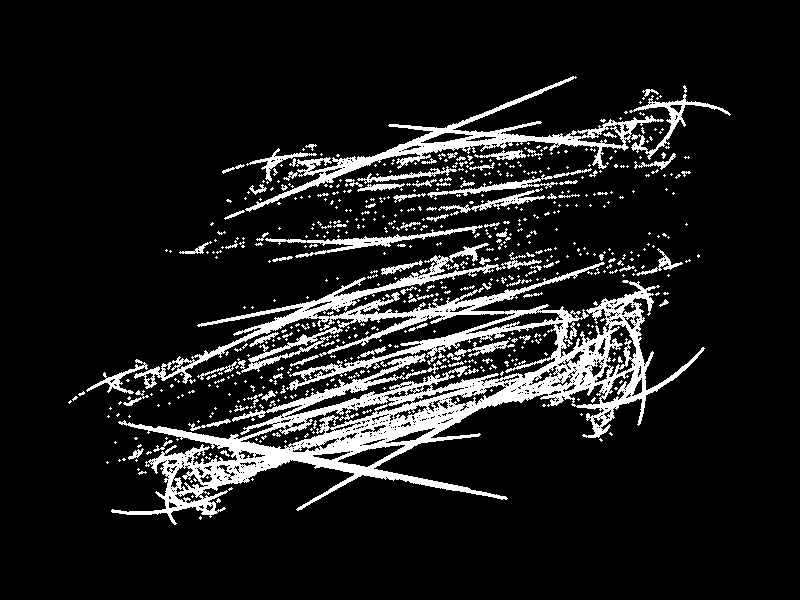
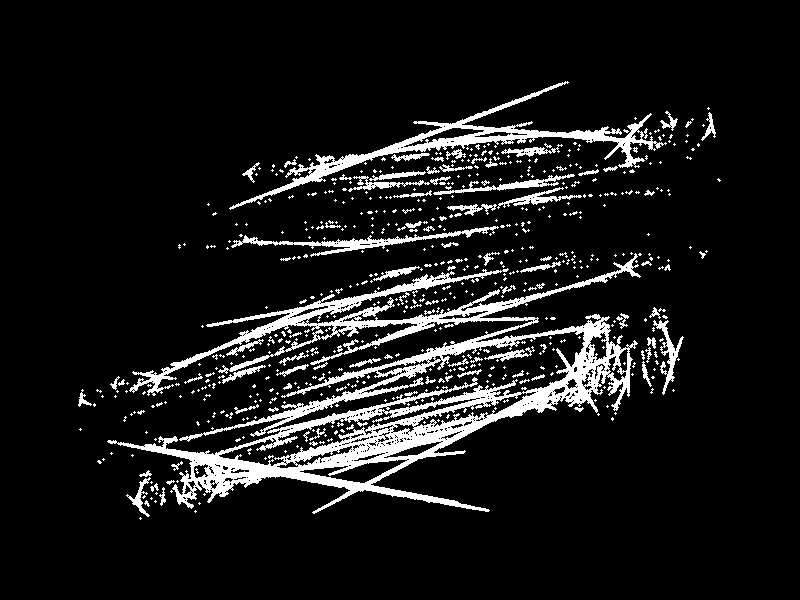
Added Post transform

Changed region(s): [[0.0938, 0.15, 0.9062, 0.87], [0.6875, 0.12, 0.7188, 0.15]]

diff --git a/src/main.rs b/src/main.rs
@@ -13,6 +13,24 @@ enum Variation {
     Popcorn,
 }
 
+struct PostTransform {
+    a: f64,
+    b: f64,
+    c: f64,
+    d: f64,
+    e: f64,
+    f: f64,
+}
+
+impl PostTransform {
+    fn apply(&self, x: f64, y: f64) -> (f64, f64) {
+        (
+            self.a * x + self.b * y + self.c,
+            self.d * x + self.e * y + self.f,
+        )
+    }
+}
+
 struct AffineTransform {
     a: f64,
     b: f64,
@@ -22,32 +40,39 @@ struct AffineTransform {
     f: f64,
     weight: f64,
     variation: Variation,
+    post_transform: Option<PostTransform>,
 }
 
 impl AffineTransform {
     fn apply(&self, x: f64, y: f64) -> (f64, f64) {
-        let (new_x, new_y) = (
+        let (x, y) = (
             self.a * x + self.b * y + self.c,
             self.d * x + self.e * y + self.f,
         );
-        let r = (new_x * new_x + new_y * new_y).sqrt();
+        let r = (x * x + y * y).sqrt();
 
-        match self.variation {
-            Variation::Linear => (new_x, new_y),
-            Variation::Sinusoidal => (new_x.sin(), new_y.sin()),
-            Variation::Spherical => (new_x / (r * r), new_y / (r * r)),
+        let (x, y) = match self.variation {
+            Variation::Linear => (x, y),
+            Variation::Sinusoidal => (x.sin(), y.sin()),
+            Variation::Spherical => (x / (r * r), y / (r * r)),
             Variation::Swirl => (
-                new_x * r.sin() - new_y * r.cos(),
-                new_x * r.cos() + new_y * r.sin(),
+                x * r.sin() - y * r.cos(),
+                x * r.cos() + y * r.sin(),
             ),
             Variation::Horseshoe => (
-                (new_x - new_y) / r,
-                (new_x + new_y) / r,
+                (x - y) / r,
+                (x + y) / r,
             ),
             Variation::Popcorn => (
-                new_x + self.c * (3.0 * new_y).tan().sin(),
-                new_y + self.f * (3.0 * new_x).tan().sin(),
+                x + self.c * (3.0 * y).tan().sin(),
+                y + self.f * (3.0 * x).tan().sin(),
             ),
+        };
+
+        if let Some(ref post_transform) = self.post_transform {
+            post_transform.apply(x, y)
+        } else {
+            (x, y)
         }
     }
 }
@@ -68,9 +93,7 @@ impl IFS {
 
         for i in 0..iterations {
             let transform = &self.transforms[dist.sample(&mut rng)];
-            let (new_x, new_y) = transform.apply(x, y);
-            x = new_x;
-            y = new_y;
+            (x, y) = transform.apply(x, y);
 
             if i >= 20 {
                 points.push((x, y));
@@ -120,6 +143,7 @@ fn main() {
         f: -0.500,
         weight: 0.370,
         variation: Variation::Linear,
+        post_transform: None,
     };
 
     let transform2 = AffineTransform {
@@ -131,6 +155,7 @@ fn main() {
         f: -0.900,
         weight: 0.570,
         variation: Variation::Linear,
+        post_transform: None,
     };
 
     let transform3 = AffineTransform {
@@ -142,6 +167,7 @@ fn main() {
         f: -0.100,
         weight: 0.022,
         variation: Variation::Linear,
+        post_transform: None,
     };
 
     let transform4 = AffineTransform {
@@ -153,6 +179,7 @@ fn main() {
         f: 0.900,
         weight: 0.058,
         variation: Variation::Linear,
+        post_transform: None,
     };
 
     let ifs = IFS {
